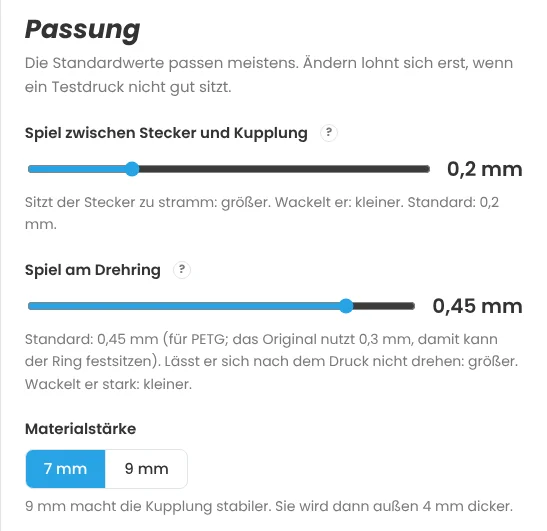
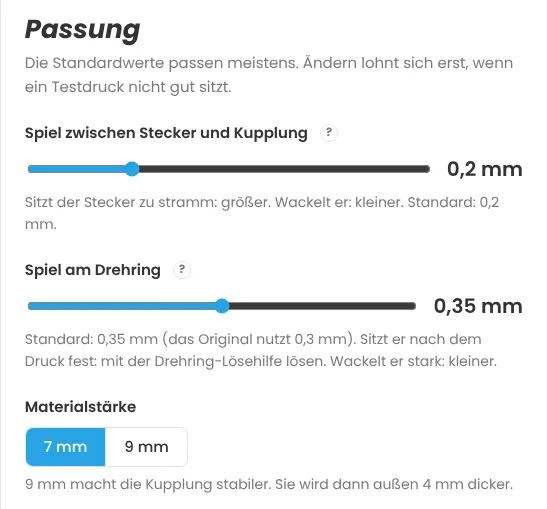
Magnetkupplung nur in der Entwicklungsumgebung, Drehring-Standard 0,35 mm, Version 0.5.5
- Verbindungen mit dev: true (catalog.ts) zeigt die Oberfläche nur unter npm run dev oder mit
  VITE_DEV_KINDS=1 beim Build (SHOW_DEV_KINDS, VISIBLE_KINDS, kindSelectable). Gespeicherte Stände
  und Druckbett-Einträge damit werden sonst nicht geladen. Die Magnet-Schnellkupplung ist so markiert.
- Anleitung: Abschnitte zwischen <!-- dev --> und <!-- /dev --> nur mit VITE_DEV_KINDS=1.
  test:ui prüft ohne Variable, dass die Kupplung ausgeblendet ist, mit Variable den Ablauf;
  Szene „magnet“ in docs:bilder nur mit Variable. Bild verbindung.webp ohne die Kupplung.
- Drehring am Schlauch: Standard wieder 0,35 mm statt 0,45 mm (Testdrucke F32H36 mit PETG: beide
  fest, 0,45 mm zieht mehr Fäden). Hinweis in Passung verweist auf die Drehring-Lösehilfe.
  Anleitung, README, test:islands, Bilder der Passung.
- CHANGELOG: Abschnitt 0.5.5, Magnetkupplung unter „In Entwicklung“. Version 0.5.5.

Claude-Session: https://claude.ai/code/session_012KSPQTXrC2Lv79WjzBB6SJ

diff --git a/public/anleitung.html b/public/anleitung.html
@@ -58,7 +58,7 @@ figure a.zoom{cursor:zoom-in;display:inline-block;max-width:100%}
 @media (max-width:900px){.wrap{grid-template-columns:1fr;gap:18px;padding:16px 14px 60px}.toc{position:static;max-height:none}section{padding:18px 16px 8px}header{padding:0 16px}}
 </style></head><body>
 <header id="oben"><p class="wordmark"><img class="wm-logo" src="./favicon.svg" alt="" width="34" height="34"><span class="wm-text"><span class="wm-os"><span class="os">os</span><span class="vac">VAC</span> <span class="neo">neo</span></span><span class="wm-sub">BAUKASTEN</span></span></p></header>
-<div class="wrap"><nav class="toc" id="inhalt" aria-label="Inhalt"><p class="toc-title">Inhalt</p><ol><li><a href="#aufbau">So ist die App aufgebaut</a><ol><li><a href="#begriffe">Was die Zeichen bedeuten</a></ol></li><li><a href="#verbindung">Schritt 1: Verbindung wählen</a></li><li><a href="#stecker-kupplung">Stecker ↔ Kupplung</a><ol><li><a href="#groessen">Größen</a></li><li><a href="#passung">Passung</a></ol></li><li><a href="#schlauch">Schlauchadapter</a><ol><li><a href="#groessen-2">Größen</a></li><li><a href="#passung-2">Passung</a></ol></li><li><a href="#stutzen">Adapter auf einen Stutzen</a><ol><li><a href="#groessen-und-stutzen-messen">Größen und Stutzen messen</a></li><li><a href="#feineinstellungen">Feineinstellungen</a></ol></li><li><a href="#magnet">Magnet-Schnellkupplung Ø100</a><ol><li><a href="#magnete-eindrucken">Magnete eindrucken</a></ol></li><li><a href="#duese">Saugdüse</a><ol><li><a href="#duesenart">Düsenart</a></li><li><a href="#anschluss">Anschluss</a></li><li><a href="#masse">Maße</a></li><li><a href="#spitze">Spitze</a></ol></li><li><a href="#nebenluft">Nebenluft-Regler</a></li><li><a href="#schieber">Schieber</a></li><li><a href="#loesehilfe">Drehring-Lösehilfe</a></li><li><a href="#freiform">Freiform</a><ol><li><a href="#vorlagen">Vorlagen</a></li><li><a href="#der-aufbau-als-kette">Der Aufbau als Kette</a></li><li><a href="#die-bausteine">Die Bausteine</a></li><li><a href="#ende-b-am-geraet">Ende B am Gerät</a></li><li><a href="#flansch">Flansch zum Anschrauben</a></li><li><a href="#abzweig-und-schieber">Abzweig und Schieber</a></li><li><a href="#was-liegt-beim-drucken-unten">Was liegt beim Drucken unten?</a></li><li><a href="#hinweise-und-vorschlaege">Hinweise und Vorschläge</a></ol></li><li><a href="#kontur">Eigene Kontur</a><ol><li><a href="#am-foto-nachzeichnen">Am Foto nachzeichnen</a></li><li><a href="#selbst-zeichnen-und-bearbeiten">Selbst zeichnen und bearbeiten</a></li><li><a href="#nach-dem-uebernehmen">Nach dem Übernehmen</a></ol></li><li><a href="#passung-3">Schritt Passung</a></li><li><a href="#download">Download</a><ol><li><a href="#druckbett">Mehrere Adapter auf ein Druckbett</a></ol></li><li><a href="#drucken">Drucken</a></li><li><a href="#fragen">Häufige Fragen</a><ol><li><a href="#der-stecker-passt-nicht-oder-wackelt">Der Stecker passt nicht oder wackelt.</a></li><li><a href="#der-drehring-dreht-sich-nicht">Der Drehring dreht sich nicht.</a></li><li><a href="#der-download-ist-gesperrt">Der Download ist gesperrt.</a></li><li><a href="#die-vorschau-ist-blass">Die Vorschau ist blass.</a></li><li><a href="#wo-sind-meine-dateien">Wo sind meine Dateien?</a></li><li><a href="#wie-fange-ich-neu-an">Wie fange ich neu an?</a></ol></li><li><a href="#darstellung">Darstellung</a></li></ol></nav><main>
+<div class="wrap"><nav class="toc" id="inhalt" aria-label="Inhalt"><p class="toc-title">Inhalt</p><ol><li><a href="#aufbau">So ist die App aufgebaut</a><ol><li><a href="#begriffe">Was die Zeichen bedeuten</a></ol></li><li><a href="#verbindung">Schritt 1: Verbindung wählen</a></li><li><a href="#stecker-kupplung">Stecker ↔ Kupplung</a><ol><li><a href="#groessen">Größen</a></li><li><a href="#passung">Passung</a></ol></li><li><a href="#schlauch">Schlauchadapter</a><ol><li><a href="#groessen-2">Größen</a></li><li><a href="#passung-2">Passung</a></ol></li><li><a href="#stutzen">Adapter auf einen Stutzen</a><ol><li><a href="#groessen-und-stutzen-messen">Größen und Stutzen messen</a></li><li><a href="#feineinstellungen">Feineinstellungen</a></ol></li><li><a href="#duese">Saugdüse</a><ol><li><a href="#duesenart">Düsenart</a></li><li><a href="#anschluss">Anschluss</a></li><li><a href="#masse">Maße</a></li><li><a href="#spitze">Spitze</a></ol></li><li><a href="#nebenluft">Nebenluft-Regler</a></li><li><a href="#schieber">Schieber</a></li><li><a href="#loesehilfe">Drehring-Lösehilfe</a></li><li><a href="#freiform">Freiform</a><ol><li><a href="#vorlagen">Vorlagen</a></li><li><a href="#der-aufbau-als-kette">Der Aufbau als Kette</a></li><li><a href="#die-bausteine">Die Bausteine</a></li><li><a href="#ende-b-am-geraet">Ende B am Gerät</a></li><li><a href="#flansch">Flansch zum Anschrauben</a></li><li><a href="#abzweig-und-schieber">Abzweig und Schieber</a></li><li><a href="#was-liegt-beim-drucken-unten">Was liegt beim Drucken unten?</a></li><li><a href="#hinweise-und-vorschlaege">Hinweise und Vorschläge</a></ol></li><li><a href="#kontur">Eigene Kontur</a><ol><li><a href="#am-foto-nachzeichnen">Am Foto nachzeichnen</a></li><li><a href="#selbst-zeichnen-und-bearbeiten">Selbst zeichnen und bearbeiten</a></li><li><a href="#nach-dem-uebernehmen">Nach dem Übernehmen</a></ol></li><li><a href="#passung-3">Schritt Passung</a></li><li><a href="#download">Download</a><ol><li><a href="#druckbett">Mehrere Adapter auf ein Druckbett</a></ol></li><li><a href="#drucken">Drucken</a></li><li><a href="#fragen">Häufige Fragen</a><ol><li><a href="#der-stecker-passt-nicht-oder-wackelt">Der Stecker passt nicht oder wackelt.</a></li><li><a href="#der-drehring-dreht-sich-nicht">Der Drehring dreht sich nicht.</a></li><li><a href="#der-download-ist-gesperrt">Der Download ist gesperrt.</a></li><li><a href="#die-vorschau-ist-blass">Die Vorschau ist blass.</a></li><li><a href="#wo-sind-meine-dateien">Wo sind meine Dateien?</a></li><li><a href="#wie-fange-ich-neu-an">Wie fange ich neu an?</a></ol></li><li><a href="#darstellung">Darstellung</a></li></ol></nav><main>
 <h1>Anleitung</h1>
 <p>Mit dem osVAC neo Baukasten stellst du Adapter für das Absaugsystem osVAC neo selbst zusammen und lädst sie als Datei für deinen 3D-Drucker herunter. Du brauchst dafür kein CAD-Programm: Du wählst aus, gibst ein paar Maße ein und siehst das Ergebnis sofort in der 3D-Vorschau.</p>
 <p>Diese Anleitung zeigt Schritt für Schritt, wie das geht, und erklärt alle Einstellungen. Über das Inhaltsverzeichnis springst du direkt zu dem Adapter, den du bauen möchtest.</p>
@@ -91,12 +91,11 @@ figure a.zoom{cursor:zoom-in;display:inline-block;max-width:100%}
 <p class="up"><a href="#oben">nach oben</a></p></section>
 <section><h2 id="verbindung">Schritt 1: Verbindung wählen</h2>
 <p>Im ersten Schritt wählst du, was für einen Adapter du brauchst. Die Arten sind nach ihrem Zweck sortiert.</p>
-<figure class="small"><a href="anleitung/verbindung.webp" class="zoom"><img src="anleitung/verbindung.webp" width="547" height="1530" alt="Schritt „Verbindung“ mit allen Adapterarten" loading="lazy"></a><figcaption>Schritt „Verbindung“ mit allen Adapterarten</figcaption></figure>
+<figure class="small"><a href="anleitung/verbindung.webp" class="zoom"><img src="anleitung/verbindung.webp" width="547" height="1375" alt="Schritt „Verbindung“ mit allen Adapterarten" loading="lazy"></a><figcaption>Schritt „Verbindung“ mit allen Adapterarten</figcaption></figure>
 <ul>
 <li><strong>osVAC neo untereinander:</strong> <a href="#stecker-kupplung">Stecker ↔ Kupplung</a> verbindet zwei Größen. <em>Kupplung einzeln</em> und <em>Stecker einzeln</em> sind nur der Verschluss, z. B. zum Einbau in eigene Konstruktionen.</li>
 <li><strong>An den Schlauch:</strong> <a href="#schlauch">Kupplung ↔ Schlauch und Stecker ↔ Schlauch</a> – zum Aufdrehen auf den Saugschlauch.</li>
 <li><strong>An ein Gerät:</strong> <a href="#stutzen">Kupplung → Stutzen und Stecker → Stutzen</a> – für ein Gerät mit rundem Stutzen, den du selbst ausmisst.</li>
-<li><strong>Magnet-Schnellkupplung Ø100:</strong> <a href="#magnet">Adapter und Kupplung für 100-mm-Schläuche</a>, die mit eingedruckten Magneten zusammenhalten. Ein eigenes System, es passt nicht zu den Teilen von osVAC neo.</li>
 <li><strong>Zubehör:</strong> <a href="#duese">Saugdüse</a>, <a href="#nebenluft">Nebenluft-Regler</a>, <a href="#schieber">Schieber einzeln</a> und <a href="#loesehilfe">Drehring-Lösehilfe</a>.</li>
 <li><strong>Eigener Aufbau:</strong> <a href="#freiform">Freiform</a> – ein Adapter aus Bausteinen, z. B. für eckige Auslässe, Bögen, Abzweige oder Geräte mit ungewöhnlicher Form.</li>
 </ul>
@@ -124,10 +123,10 @@ figure a.zoom{cursor:zoom-in;display:inline-block;max-width:100%}
 <li><strong>Schlauch (H):</strong> der Innendurchmesser des Schlauchs. Miss ihn innen oder schau in die Angaben deines Saugers. Viele Schläuche haben 32 oder 36 mm.</li>
 </ul>
 <h3 id="passung-2">Passung</h3>
-<figure class="small"><a href="anleitung/passung-schlauch.webp" class="zoom"><img src="anleitung/passung-schlauch.webp" width="547" height="531" alt="Passung beim Schlauchadapter" loading="lazy"></a><figcaption>Passung beim Schlauchadapter</figcaption></figure>
+<figure class="small"><a href="anleitung/passung-schlauch.webp" class="zoom"><img src="anleitung/passung-schlauch.webp" width="547" height="509" alt="Passung beim Schlauchadapter" loading="lazy"></a><figcaption>Passung beim Schlauchadapter</figcaption></figure>
 <ul>
 <li><strong>Spiel zwischen Stecker und Kupplung:</strong> wie bei <a href="#stecker-kupplung">Stecker ↔ Kupplung</a>.</li>
-<li><strong>Spiel am Drehring:</strong> Der Ring wird gleich mitgedruckt. Ist das Spiel zu klein, klebt er fest. Standard sind 0,45 mm, passend für PETG (bei 9 mm Materialstärke höchstens 0,35 mm). Das Original nutzt 0,3 mm; damit sitzt der Ring mit PETG oft fest.</li>
+<li><strong>Spiel am Drehring:</strong> Der Ring wird gleich mitgedruckt. Ist das Spiel zu klein, klebt er fest. Standard sind 0,35 mm, bei 9 mm Materialstärke ist das auch das Höchstmaß. Das Original nutzt 0,3 mm. Mit PETG kann der Ring nach dem Druck festsitzen; dann hilft die <a href="#loesehilfe">Drehring-Lösehilfe</a>.</li>
 <li><strong>Materialstärke:</strong> 9 mm statt 7 mm macht die Kupplung stabiler, sie wird dann außen 4 mm dicker.</li>
 </ul>
 <div class="box tip"><strong>Hinweis:</strong> Nach dem Druck den Schlauchteil einmal kräftig drehen, bis sich der Ring leicht bewegt. Sitzt er richtig fest, hilft die <a href="#loesehilfe">Drehring-Lösehilfe</a>.</div>
@@ -156,27 +155,6 @@ figure a.zoom{cursor:zoom-in;display:inline-block;max-width:100%}
 </ul>
 <p>Die kleine Tabelle darunter zeigt, wie weit das Rohrteil am Ende innen und außen wird.</p>
 <div class="box tip"><strong>Tipp:</strong> Für Geräte mit eckigem oder ungewöhnlichem Auslass nimm die <a href="#freiform">Freiform</a>. Dort gibt es auch einen <a href="#flansch">Flansch zum Anschrauben</a> und <a href="#kontur">eigene Konturen</a>.</div>
-<p class="up"><a href="#oben">nach oben</a></p></section>
-<section><h2 id="magnet">Magnet-Schnellkupplung Ø100</h2>
-<p>Für große Geräte mit 100-mm-Absaugung: Am Gerät sitzt ein <strong>Maschinenadapter</strong>, am Schlauch eine <strong>Schlauchkupplung</strong>. Beide halten über je acht Neodym-Magnete zusammen; ein Bund in der Mitte zentriert sie. Zum Umstecken ziehst du die Kupplung ab und setzt sie am nächsten Gerät an. Das ist ein eigenes System und passt nicht zu den Teilen von osVAC neo.</p>
-<figure><a href="anleitung/magnet-vorschau.webp" class="zoom"><img src="anleitung/magnet-vorschau.webp" width="1440" height="900" alt="Magnet-Schnellkupplung in der Vorschau" loading="lazy"></a><figcaption>Magnet-Schnellkupplung in der Vorschau</figcaption></figure>
-<figure class="small"><a href="anleitung/magnet.webp" class="zoom"><img src="anleitung/magnet.webp" width="547" height="1060" alt="Einstellungen der Magnet-Schnellkupplung" loading="lazy"></a><figcaption>Einstellungen der Magnet-Schnellkupplung</figcaption></figure>
-<ul>
-<li><strong>Teile:</strong> Maschinenadapter, Schlauchkupplung oder beides. Für jedes Gerät brauchst du einen Adapter, für jeden Schlauch eine Kupplung. Beide zusammen brauchen ein Druckbett von etwa 240 mm; ist deins kleiner, druckst du sie nacheinander.</li>
-<li><strong>Magnete:</strong> Scheibenmagnete 10 × 3, 12 × 5 oder 15 × 3 mm (Ø × Höhe). Größere halten fester. Adapter und Kupplung immer mit derselben Größe drucken.</li>
-<li><strong>Stutzen außen Ø</strong> und <strong>Tiefe:</strong> Außendurchmesser des Stutzens am Gerät und wie weit er im Adapter steckt, bis zum Anschlag innen.</li>
-<li><strong>Schlauch innen Ø</strong>, <strong>Steigung</strong> und <strong>Links- oder Rechtsgewinde:</strong> passend zur Drahtspirale deines Schlauchs. Die Steigung misst du am besten über fünf Windungen und teilst durch fünf.</li>
-</ul>
-<p>In <em>Passung</em> stellst du das Spiel am Stutzen und am Zentrierbund ein.</p>
-<p>Der Adapter wird mit einer Schraubklemme festgezogen: eine Zylinderschraube M5 × 25 (ISO 4762) und eine selbstsichernde Mutter M5 (DIN 985). Die Mutter sitzt verdrehsicher in einer Sechskant-Tasche.</p>
-<h3 id="magnete-eindrucken">Magnete eindrucken</h3>
-<p>Die Magnete liegen in geschlossenen Taschen unter der Kontaktfläche. Beim Drucken hältst du an der richtigen Schicht an, legst die Magnete ein und druckst weiter; drei Schichten darüber schließen die Taschen.</p>
-<ol>
-<li>Im Slicer an der Höhe, die im <a href="#download">Download</a> unter <em>Druckhinweise</em> steht, eine Pause einfügen (Bambu Studio: Schieber der Schichtvorschau auf diese Höhe, Rechtsklick auf das Plus, <em>Pause hinzufügen</em>). Mit 0,2 mm Schichthöhe drucken.</li>
-<li>In der Pause die Magnete bis zum Boden in die Taschen drücken. Nichts darf überstehen.</li>
-<li><strong>Polung:</strong> Alle Magnete eines Teils gleich herum einlegen, beim Adapter mit der einen Seite nach oben, bei der Kupplung mit der anderen. Dann ziehen sich alle Kupplungen und Adapter an.</li>
-<li>Weiterdrucken.</li>
-</ol>
 <p class="up"><a href="#oben">nach oben</a></p></section>
 <section><h2 id="duese">Saugdüse</h2>
 <p>Eine eigene Düse zum Aufstecken auf den Schlauch. Die Düse wird stehend gedruckt, mit dem Anschluss unten und der Spitze oben.</p>
@@ -217,7 +195,7 @@ figure a.zoom{cursor:zoom-in;display:inline-block;max-width:100%}
 <li><strong>Unten: Schlauch (H):</strong> wie beim <a href="#schlauch">Schlauchadapter</a>. Der Schlauch wird eingedreht und kann sich mit dem unteren Drehring drehen.</li>
 <li><strong>Bedienung:</strong> Den Nebenluft-Ring um 60° drehen: von ganz auf bis ganz zu, dazwischen stufenlos. Kerben am oberen Bund zeigen, wo die Fenster sind.</li>
 </ul>
-<p>In <strong>Passung</strong> stellst du das <strong>Spiel am Nebenluft-Ring</strong> ein (Standard 0,35 mm) und das <strong>Spiel am Drehring</strong> für den Schlauch (Standard 0,45 mm). Dreht ein Ring nach dem Druck zu schwer, mehr Spiel einstellen.</p>
+<p>In <strong>Passung</strong> stellst du das <strong>Spiel am Nebenluft-Ring</strong> ein (Standard 0,35 mm) und das <strong>Spiel am Drehring</strong> für den Schlauch (Standard 0,35 mm). Dreht ein Ring nach dem Druck zu schwer, mehr Spiel einstellen.</p>
 <p class="up"><a href="#oben">nach oben</a></p></section>
 <section><h2 id="schieber">Schieber</h2>
 <p>Ein Absperrschieber für Rohre: Mit einer Platte machst du die Leitung auf oder zu. Er besteht aus zwei Gehäuseteilen und der Platte und wird verschraubt (Muttern und Schrauben M3).</p>

diff --git a/scripts/ui-flows.ts b/scripts/ui-flows.ts
@@ -564,39 +564,47 @@ await withPreview(4180, async (url, browser) => {
     expect((await pg.locator('.stage-head .code').innerText()).includes('F32'), 'Stecker-Halter fehlt in der Kopfzeile');
   });
 
-  await test('Magnet-Schnellkupplung: Teile, Magnete, Druckpause', pg, async () => {
-    await step(pg, 'Verbindung');
-    await pg.getByRole('radio', { name: /Magnet-Schnellkupplung/ }).click();
-    await step(pg, 'Teile');
-    await ready(pg);
-    expect((await pg.locator('.stage-head .code').innerText()).includes('10 × 3'), 'Kopfzeile: ' + (await pg.locator('.stage-head .code').innerText()));
-    await pg.getByRole('radio', { name: '12 × 5 mm' }).click();
-    await ready(pg);
-    expect((await pg.locator('.stage-head .code').innerText()).includes('12 × 5'), 'Magnetgröße nicht übernommen');
-    await pg.getByLabel(/Schlauchkupplung: wird/).uncheck();
-    expect(await pg.getByLabel(/Maschinenadapter: kommt/).isDisabled(), 'letztes Teil abwählbar');
-    expect((await pg.getByText('Steigung', { exact: true }).count()) === 0, 'Gewinde-Felder ohne Kupplung sichtbar');
-    await ready(pg);
-    await step(pg, 'Download');
-    const tips = await pg.locator('.tips').innerText();
-    expect(tips.includes('8 Neodym-Scheibenmagnete 12 × 5 mm'), 'Zahl/Größe der Magnete fehlt');
-    expect(/Adapter bei [\d,]+ mm/.test(tips) && !tips.includes('Kupplung bei'), 'Druckpause nur für den Adapter erwartet');
-    expect(tips.includes('M5 × 25') && tips.includes('DIN 985'), 'Schraube/Mutter fehlt');
-    expect(tips.includes('Stützen werden nicht gebraucht'), 'Magnetkupplung braucht Stützen?');
-    expect((await pg.locator('.lead').first().innerText()).includes('Magnete 12 × 5 mm'), 'Download-Text ohne Magnetgröße');
-    await step(pg, 'Teile');
-    await pg.getByLabel(/Schlauchkupplung: wird/).check();
-    await pg.getByRole('radio', { name: 'Rechtsgewinde' }).click();
-    await step(pg, 'Passung');
-    expect((await pg.getByText('Spiel am Zentrierbund').count()) === 1, 'Spiel am Bund fehlt');
-    await ready(pg);
-    await step(pg, 'Download');
-    expect((await pg.locator('.tips').innerText()).includes('Kupplung bei'), 'Druckpause der Kupplung fehlt');
-    expect((await pg.locator('.tips').innerText()).includes('im Uhrzeigersinn'), 'Drehrichtung Rechtsgewinde fehlt');
-    await step(pg, 'Teile');
-    await pg.getByRole('radio', { name: '10 × 3 mm' }).click();
-    await pg.getByRole('radio', { name: 'Linksgewinde' }).click();
-  });
+  // Verbindungen in Entwicklung (catalog.ts, dev: true) gibt es nur mit VITE_DEV_KINDS=1 (beim Build und hier gesetzt)
+  if (process.env.VITE_DEV_KINDS === '1') {
+    await test('Magnet-Schnellkupplung: Teile, Magnete, Druckpause', pg, async () => {
+      await step(pg, 'Verbindung');
+      await pg.getByRole('radio', { name: /Magnet-Schnellkupplung/ }).click();
+      await step(pg, 'Teile');
+      await ready(pg);
+      expect((await pg.locator('.stage-head .code').innerText()).includes('10 × 3'), 'Kopfzeile: ' + (await pg.locator('.stage-head .code').innerText()));
+      await pg.getByRole('radio', { name: '12 × 5 mm' }).click();
+      await ready(pg);
+      expect((await pg.locator('.stage-head .code').innerText()).includes('12 × 5'), 'Magnetgröße nicht übernommen');
+      await pg.getByLabel(/Schlauchkupplung: wird/).uncheck();
+      expect(await pg.getByLabel(/Maschinenadapter: kommt/).isDisabled(), 'letztes Teil abwählbar');
+      expect((await pg.getByText('Steigung', { exact: true }).count()) === 0, 'Gewinde-Felder ohne Kupplung sichtbar');
+      await ready(pg);
+      await step(pg, 'Download');
+      const tips = await pg.locator('.tips').innerText();
+      expect(tips.includes('8 Neodym-Scheibenmagnete 12 × 5 mm'), 'Zahl/Größe der Magnete fehlt');
+      expect(/Adapter bei [\d,]+ mm/.test(tips) && !tips.includes('Kupplung bei'), 'Druckpause nur für den Adapter erwartet');
+      expect(tips.includes('M5 × 25') && tips.includes('DIN 985'), 'Schraube/Mutter fehlt');
+      expect(tips.includes('Stützen werden nicht gebraucht'), 'Magnetkupplung braucht Stützen?');
+      expect((await pg.locator('.lead').first().innerText()).includes('Magnete 12 × 5 mm'), 'Download-Text ohne Magnetgröße');
+      await step(pg, 'Teile');
+      await pg.getByLabel(/Schlauchkupplung: wird/).check();
+      await pg.getByRole('radio', { name: 'Rechtsgewinde' }).click();
+      await step(pg, 'Passung');
+      expect((await pg.getByText('Spiel am Zentrierbund').count()) === 1, 'Spiel am Bund fehlt');
+      await ready(pg);
+      await step(pg, 'Download');
+      expect((await pg.locator('.tips').innerText()).includes('Kupplung bei'), 'Druckpause der Kupplung fehlt');
+      expect((await pg.locator('.tips').innerText()).includes('im Uhrzeigersinn'), 'Drehrichtung Rechtsgewinde fehlt');
+      await step(pg, 'Teile');
+      await pg.getByRole('radio', { name: '10 × 3 mm' }).click();
+      await pg.getByRole('radio', { name: 'Linksgewinde' }).click();
+    });
+  } else
+    await test('Magnet-Schnellkupplung im Build ausgeblendet', pg, async () => {
+      await step(pg, 'Verbindung');
+      expect((await pg.getByRole('radio', { name: /Magnet-Schnellkupplung/ }).count()) === 0, 'Magnet-Schnellkupplung ist sichtbar');
+      expect((await pg.getByText('Magnet-Schnellkupplung Ø100').count()) === 0, 'Gruppe Magnet-Schnellkupplung ist sichtbar');
+    });
 
   await test('Druckhilfe gilt je Verbindung', pg, async () => {
     const tool = pg.locator('button.tool', { hasText: 'Druckhilfe' });

diff --git a/src/lib/app.svelte.ts b/src/lib/app.svelte.ts
@@ -5,7 +5,7 @@
  */
 import { exportFile, exportPlate, makeBuild, type PlateItem } from './cad';
 import { saveTarget } from './save.svelte';
-import { kindById, type DiameterKey } from './osvac/catalog';
+import { kindById, kindSelectable, type DiameterKey } from './osvac/catalog';
 import { DEFAULT_INPUT, deriveParams, type OsvacInput } from './osvac/params';
 import type { ExportFormat } from './worker/protocol';
 import { pipeWall, type PipeSpec } from './osvac/machine';
@@ -29,10 +29,13 @@ export const FORMATS: { id: ExportFormat; label: string; hint: string }[] = [
 
 /** Startwerte (auf diese setzt „Zurücksetzen“ zurück) */
 /**
- * Startwerte der App. Drehring am Schlauch 0,45 mm statt 0,3 mm wie im Original (DEFAULT_INPUT, bleibt für den Abgleich
- * mit Fusion): mit PETG und 0,2-mm-Schichten saß der Ring bei 0,35 mm noch fest (Testdruck Nebenluft F32H36, 16.11.).
+ * Startwerte der App. Drehring am Schlauch 0,35 mm statt 0,3 mm wie im Original (DEFAULT_INPUT, bleibt für den Abgleich
+ * mit Fusion). Testdrucke F32H36 mit PETG (Sunlu) und 0,2-mm-Schichten, 16./17.11.: bei 0,35 und bei 0,45 mm saß der
+ * Ring fest, 0,45 mm zog dabei deutlich mehr Fäden. Ursache vermutlich nicht das Spiel, sondern die ersten Bahnen des
+ * Außenrings, die frei 0,45–0,55 mm über dem Innenring gedruckt werden und durchhängen. Daher wieder 0,35 mm (wie das
+ * Höchstmaß bei 9 mm Materialstärke an der Kupplung).
  */
-export const START_INPUT: OsvacInput = { ...DEFAULT_INPUT, maleDiameterInner: 32, femaleDiameterInner: 32, hoseDiameterInner: 36, slipRingGapSize: 0.45 };
+export const START_INPUT: OsvacInput = { ...DEFAULT_INPUT, maleDiameterInner: 32, femaleDiameterInner: 32, hoseDiameterInner: 36, slipRingGapSize: 0.35 };
 
 /** Bereiche der Eingabefelder (beim Laden eines gespeicherten Stands) */
 const INPUT_LIMITS: Record<keyof OsvacInput, [number, number]> = {
@@ -756,7 +759,7 @@ class AppState {
       const list = JSON.parse(raw);
       if (!Array.isArray(list)) return;
       this.plate = list
-        .filter((x) => x && typeof x.kind === 'string' && kindById(x.kind)?.available && (x.kind !== 'BLEED' || (x.options && typeof x.options === 'object' && 'bleed' in x.options)) && (x.kind !== 'MAGNET' || (x.options && typeof x.options === 'object' && 'magnet' in x.options)) && x.input && typeof x.input === 'object' && x.options && typeof x.options === 'object' && typeof x.label === 'string' && typeof x.key === 'string')
+        .filter((x) => x && typeof x.kind === 'string' && kindSelectable(x.kind) && (x.kind !== 'BLEED' || (x.options && typeof x.options === 'object' && 'bleed' in x.options)) && (x.kind !== 'MAGNET' || (x.options && typeof x.options === 'object' && 'magnet' in x.options)) && x.input && typeof x.input === 'object' && x.options && typeof x.options === 'object' && typeof x.label === 'string' && typeof x.key === 'string')
         .map((x) => ({ req: makeBuild(x.kind, { ...START_INPUT, ...x.input }, x.options), includeHelpers: x.includeHelpers === true, label: x.label, key: x.key }));
     } catch {
       /* beschädigt: leeres Druckbett */
@@ -775,7 +778,7 @@ class AppState {
     try {
       const s = JSON.parse(raw);
       const num = (v: unknown) => typeof v === 'number' && Number.isFinite(v);
-      if (typeof s.kindId === 'string' && kindById(s.kindId)?.available) this.kindId = s.kindId;
+      if (typeof s.kindId === 'string' && kindSelectable(s.kindId)) this.kindId = s.kindId;
       if (s.input && typeof s.input === 'object')
         for (const k of Object.keys(START_INPUT) as (keyof OsvacInput)[]) if (num(s.input[k])) (this.input[k] as number) = Math.min(INPUT_LIMITS[k][1], Math.max(INPUT_LIMITS[k][0], s.input[k]));
       if (this.input.generalMaterialWidth !== 7 && this.input.generalMaterialWidth !== 9) this.input.generalMaterialWidth = START_INPUT.generalMaterialWidth;

diff --git a/src/lib/osvac/catalog.ts b/src/lib/osvac/catalog.ts
@@ -39,6 +39,8 @@ export interface AdapterKind {
   helper?: boolean;
   /** Magnet-Schnellkupplung Ø100: eigenes System mit eingedruckten Neodym-Magneten */
   magnet?: boolean;
+  /** noch in Entwicklung: nur in der Entwicklungsumgebung sichtbar (siehe SHOW_DEV_KINDS) */
+  dev?: boolean;
   fileName: (p: OsvacParams, o?: asm.BuildOptions) => string;
 }
 
@@ -167,6 +169,7 @@ export const KINDS: AdapterKind[] = [
     ends: { top: 'magnet', bottom: null },
     diameters: [],
     magnet: true,
+    dev: true,
     available: true,
     build: asm.buildMagnet,
     parts: asm.partsMagnet,
@@ -254,3 +257,16 @@ export const KINDS: AdapterKind[] = [
 ];
 
 export const kindById = (id: string) => KINDS.find((k) => k.id === id)!;
+
+/**
+ * Verbindungen in Entwicklung (dev: true) zeigt die Oberfläche nur in der Entwicklungsumgebung (`npm run dev`) oder in
+ * einem Build mit `VITE_DEV_KINDS=1`. Im Programm und in `npm run build` ohne diese Variable sind sie ausgeblendet; ein
+ * gespeicherter Stand oder Druckbett-Eintrag damit wird nicht geladen. Geometrie, Worker und Skripte (Node, ohne
+ * import.meta.env) kennen sie weiter.
+ */
+const viteEnv = (import.meta as { env?: { DEV?: boolean; VITE_DEV_KINDS?: string } }).env;
+export const SHOW_DEV_KINDS = !viteEnv || !!viteEnv.DEV || viteEnv.VITE_DEV_KINDS === '1';
+/** Verbindungen, die die Oberfläche anbietet */
+export const VISIBLE_KINDS = KINDS.filter((k) => !k.dev || SHOW_DEV_KINDS);
+/** Verbindung wählbar (bekannt, verfügbar und sichtbar) */
+export const kindSelectable = (id: string) => VISIBLE_KINDS.some((k) => k.id === id && k.available);

diff --git a/scripts/islands.ts b/scripts/islands.ts
@@ -70,8 +70,8 @@ const others: [string, string, object, RegExp, object?][] = [
   ['schieber-50-wandplatte', 'GATE', { gate: { ...DEFAULT_GATE, d: 50, mount: 'plate' } as GateSpec }, COUNTED_GATE],
   ['schieber-32-wandhalter', 'GATE', { gate: { ...DEFAULT_GATE, d: 32, mount: 'clip' } as GateSpec }, COUNTED_GATE],
   ['loesehilfe-32', 'HELPER', {}, /^Lösehilfe/],
-  // wie beim ersten Öffnen der App (Nebenluft-Ring 0,35, Drehring 0,45)
-  ['nebenluft-F32-H36', 'BLEED', { bleed: { top: 'female', gap: 0.35 } }, /^$/, { femaleDiameterInner: 32, hoseDiameterInner: 36, slipRingGapSize: 0.45 }],
+  // wie beim ersten Öffnen der App (Nebenluft-Ring 0,35, Drehring 0,35)
+  ['nebenluft-F32-H36', 'BLEED', { bleed: { top: 'female', gap: 0.35 } }, /^$/, { femaleDiameterInner: 32, hoseDiameterInner: 36, slipRingGapSize: 0.35 }],
   ['nebenluft-M32-H27-W9', 'BLEED', { bleed: { top: 'male', gap: 0.3 } }, /^$/, { maleDiameterInner: 32, hoseDiameterInner: 27, generalMaterialWidth: 9 }],
   ['nebenluft-F50-H50', 'BLEED', { bleed: { top: 'female', gap: 0.6 } }, /^$/, { femaleDiameterInner: 50, hoseDiameterInner: 50 }],
   ['loesehilfe-F25-M50-W9', 'HELPER', {}, /^Lösehilfe/, { femaleDiameterInner: 25, maleDiameterInner: 50, generalMaterialWidth: 9, maleFemaleGapSize: 0.3 }],

diff --git a/scripts/anleitung.ts b/scripts/anleitung.ts
@@ -58,7 +58,11 @@ function figure(alt: string, src: string, small: boolean) {
   return `<figure${small ? ' class="small"' : ''}><a href="${src}" class="zoom"><img src="${src}"${wh} alt="${esc(alt)}" loading="lazy"></a>${alt ? `<figcaption>${inline(alt)}</figcaption>` : ''}</figure>`;
 }
 
-const md = readFileSync(SRC, 'utf8').replace(/<!--[\s\S]*?-->/g, '');
+// Abschnitte zwischen <!-- dev --> und <!-- /dev --> gehören zu Verbindungen in Entwicklung (catalog.ts, dev: true):
+// nur mit VITE_DEV_KINDS=1 in der Anleitung
+const DEV = process.env.VITE_DEV_KINDS === '1';
+const raw = readFileSync(SRC, 'utf8');
+const md = (DEV ? raw.replace(/^<!-- \/?dev -->\n/gm, '') : raw.replace(/<!-- dev -->[\s\S]*?<!-- \/dev -->\n?/g, '')).replace(/<!--[\s\S]*?-->/g, '');
 const lines = md.split('\n');
 const toc: { level: number; id: string; text: string }[] = [];
 const used = new Set<string>();

diff --git a/src/components/steps/StepFit.svelte b/src/components/steps/StepFit.svelte
@@ -71,7 +71,7 @@
       <output>{fmt(app.input.slipRingGapSize, 2)} mm</output>
     </div>
     <HelpText id="swivel" />
-    <p class="hint" id="swivel-hint">Standard: {fmt(app.swivelDefault, 2)} mm (für PETG; das Original nutzt 0,3 mm, damit kann der Ring festsitzen). Lässt er sich nach dem Druck nicht drehen: größer. Wackelt er stark: kleiner.</p>
+    <p class="hint" id="swivel-hint">Standard: {fmt(app.swivelDefault, 2)} mm (das Original nutzt 0,3 mm). Sitzt er nach dem Druck fest: mit der Drehring-Lösehilfe lösen. Wackelt er stark: kleiner.</p>
   </fieldset>
 {/if}
 

diff --git a/scripts/anleitung-bilder.ts b/scripts/anleitung-bilder.ts
@@ -249,8 +249,10 @@ const scenes: Scene[] = [
     },
   },
   {
+    // Verbindung in Entwicklung: nur mit VITE_DEV_KINDS=1 (Build und Aufnahme), sonst übersprungen
     name: 'magnet',
     run: async (pg) => {
+      if (process.env.VITE_DEV_KINDS !== '1') return console.log('   übersprungen (nur mit VITE_DEV_KINDS=1)');
       await kind(pg, /Magnet-Schnellkupplung/);
       await step(pg, 'Teile');
       await shotPanel(pg, 'magnet');

diff --git a/src/components/steps/StepKind.svelte b/src/components/steps/StepKind.svelte
@@ -1,7 +1,7 @@
 <script lang="ts">
   /** Schritt 1: Adaptertyp wählen */
   import { app } from '../../lib/app.svelte';
-  import { KINDS, KIND_GROUPS } from '../../lib/osvac/catalog';
+  import { VISIBLE_KINDS as KINDS, KIND_GROUPS } from '../../lib/osvac/catalog';
   import KindIcon from '../KindIcon.svelte';
   import ResetLink from '../ResetLink.svelte';
   import { reveal } from '../../lib/reveal';

diff --git a/README.md b/README.md
@@ -29,11 +29,11 @@ Es werden keine neuen Adapter erfunden. Jedes Teil ist ein parametrisiertes Orig
 | Schieber einzeln | Unterteil und Oberteil (verschraubt, je eine Muffe), Schieberplatte, ggf. Wandhalter | eigene Erweiterung, siehe unten |
 | Saugdüse | Anschluss (Kupplung oder Stecker), Rohr, Spitze mit Öffnung, ggf. Schutzring und Bürstennut | eigene Erweiterung, siehe unten |
 | Nebenluft-Regler | Kupplung oder Stecker, Rohr mit Fenstern und Drehring, Drehring für den Schlauch, Schlauchteil mit Gewinde und Knickschutz | eigene Erweiterung, siehe unten |
-| Magnet-Schnellkupplung Ø100 | Maschinenadapter mit Schraubklemme, Schlauchkupplung mit Gewinde (eigener Körper), je 8 eingedruckte Magnete | eigenes System, siehe unten |
+| Magnet-Schnellkupplung Ø100 (in Entwicklung) | Maschinenadapter mit Schraubklemme, Schlauchkupplung mit Gewinde (eigener Körper), je 8 eingedruckte Magnete | eigenes System, siehe unten |
 | Drehring-Lösehilfe | Halter für Kupplungen oder für Stecker | SlipRingHelper (Ludo Kerz), siehe unten |
 | Freiform | Anschluss A (Female oder Male), Übergang, Bausteine, Ende B (Gerät oder Female/Male) | eigene Erweiterung, siehe unten |
 
-Einstellbar: Durchmesser von Stecker, Kupplung und Schlauch, Spaltmaß Stecker/Kupplung, Spaltmaß Drehring (ab 0,2 mm, Standard 0,45 mm, bei 9 mm Materialstärke an der Kupplung 0,35 mm; das Original hat 0,3 mm; an der Kupplung höchstens 0,5 mm bei 7 mm bzw. 0,35 mm bei 9 mm Materialstärke, im Gehäuse bis 0,8 mm), Materialstärke (7 oder 9 mm), Druckhilfe (die Beschriftung ist immer dabei) sowie beim Stutzen Befestigungsart, Durchmesser vorne und in der Tiefe, Steckweg, Wandstärke, Zugabe, Übergangslänge (TransitionConeLength, Standard 8 mm), Schraubenlöcher, Klemmrippen (aufgesteckt innen, eingesteckt außen; eingesteckt möglichst neben der Beschriftung) und beim Aufstecken Schlitze für eine Schlauchschelle (2 Stück bei 0° und 180°, zwischen Löchern und Schrift; 80 % der Rohrlänge, Breite Umfang/40).
+Einstellbar: Durchmesser von Stecker, Kupplung und Schlauch, Spaltmaß Stecker/Kupplung, Spaltmaß Drehring (ab 0,2 mm, Standard 0,35 mm; das Original hat 0,3 mm; an der Kupplung höchstens 0,5 mm bei 7 mm bzw. 0,35 mm bei 9 mm Materialstärke, im Gehäuse bis 0,8 mm), Materialstärke (7 oder 9 mm), Druckhilfe (die Beschriftung ist immer dabei) sowie beim Stutzen Befestigungsart, Durchmesser vorne und in der Tiefe, Steckweg, Wandstärke, Zugabe, Übergangslänge (TransitionConeLength, Standard 8 mm), Schraubenlöcher, Klemmrippen (aufgesteckt innen, eingesteckt außen; eingesteckt möglichst neben der Beschriftung) und beim Aufstecken Schlitze für eine Schlauchschelle (2 Stück bei 0° und 180°, zwischen Löchern und Schrift; 80 % der Rohrlänge, Breite Umfang/40).
 
 ### Schieber einzeln
 
@@ -64,7 +64,7 @@ Gerade, Bogen, Anschlagring und Muffe/Zapfen ohne Konus sind exakte Extrusionen 
 
 **Eigene Kontur** (`src/lib/osvac/contour.ts`, `src/lib/contour-import.ts`, `ContourPanel.svelte`, `ContourDraw.svelte`): siebte Form „Eigene“ in jeder Formauswahl der Freiform. Wege: SVG/DXF laden (SVG im Browser abgetastet mit Transformationen und Einheiten aus width/viewBox; DXF: LWPOLYLINE/POLYLINE mit Bögen, LINE/ARC verkettet, CIRCLE, ELLIPSE, SPLINE, `$INSUNITS`; mehrere Umrisse → Auswahl), am Foto nachzeichnen (Maßstab aus zwei Punkten auf einem Lineal) oder auf Millimeterraster zeichnen (Punkte ziehen, einfügen, löschen, Eckradius je Punkt). Aufbereitung: spitze Ecken R 0,5, Rundungen dicht abgetastet, Mitte des Umrisses im Ursprung. Versatz für Zugabe und Wand mit Clipper (runde Ecken). Draht: lange Kanten als Linien, Ketten kurzer Kanten als BSpline, an Knicken getrennt. Die Punkte gelten mit Blick auf den Stutzen (von außen); in der Geometrie werden sie gespiegelt, weil die Querschnittsebene in Richtung der Kette gesehen wird. Prüfung: geschlossen, ohne Überschneidung, 6–250 mm; eingesteckt Hinweis bei Stellen, die schmaler als Wand und Luft sind (narrowLoss). SVG: `<use>`/`<symbol>` werden aufgelöst, Vorlagen in `<defs>` nicht mitgezählt. Editor: Rückgängig, Zoom mit zwei Fingern und Knöpfen, Rückfrage vor dem Verwerfen. Testdateien in `scripts/fixtures`. Clipper, der SVG/DXF-Leser und das Zeichenfenster werden nachgeladen (eigene Dateien): Wer mit Konturen rechnet, wartet auf `clipperReady` (CAD-Worker, Skripte); die Planung im Browser rechnet nach dem Laden neu (`app.clipperOk`).
 
-**Magnet-Schnellkupplung Ø100** (`src/lib/osvac/magnet.ts`, `partsMagnet` in `assemblies.ts`): eigenes System, nicht kompatibel mit osVAC neo; Idee wie die magnetische Schnellkupplung von kleinholz.me, eigene Konstruktion. Maschinenadapter: Muffe über den Stutzen (Ø 90–110, Spiel je Seite 0,3), innen 45°-Anschlag auf die Bohrung Ø 97, am offenen Ende Schraubklemme (Schlitz 4 mm mit Entlastungsloch Ø 8, zwei Ohren mit 45°-Stützen, Bohrung Ø 5,5, Kopfsenkung Ø 9,2 und Sechskant-Tasche SW 8,3, beide 5,3 tief: Zylinderschraube M5 × 25 ISO 4762, selbstsichernde Mutter M5 DIN 985), oben Flansch und Zentrierbund Ø 106 × 6. Schlauchkupplung: Rohr mit Außengewinde (Grund = Schlauch innen Ø 90–110, Tiefe 3, Flanken 45°, Steigung 8–20, links oder rechts, eigener Körper „Gewinde“), oben Flansch mit Tasche für den Bund (Spiel je Seite 0,3). Flansch: Scheibe R 59 und 8 Nasen auf R 63 (Nasenradius = Tasche/2 + 3,5), Unterseite durchgehend 45° von der Wand bis außen an die Nasen, darum druckt alles ohne Stützen. Magnete 10 × 3, 12 × 5 oder 15 × 3 in geschlossenen Taschen (+0,3 im Ø, +0,2 hoch) 0,6 mm unter der Kontaktfläche; Kontaktfläche und Taschen im 0,2-mm-Raster, die Höhen der Druckpause stehen in den Druckhinweisen. Beide Teile werden mit der Kontaktfläche nach oben gedruckt und liegen diagonal nebeneinander, um 22,5° gegeneinander verdreht (passen auf 256 mm). `npm run test:islands -- magnet` prüft drei Varianten; `npx tsx scripts/magnet-try.ts [Ordner] [JSON]` baut die Körper einzeln als STL.
+**Magnet-Schnellkupplung Ø100** (`src/lib/osvac/magnet.ts`, `partsMagnet` in `assemblies.ts`), **in Entwicklung**: Die Oberfläche zeigt sie nur unter `npm run dev` oder in einem Build mit `VITE_DEV_KINDS=1` (`dev: true` in `catalog.ts`, `SHOW_DEV_KINDS`), im Programm und in Releases nicht. Ihr Abschnitt in `docs/anleitung.md` steht zwischen `<!-- dev -->` und `<!-- /dev -->` und kommt nur mit derselben Variable in die Anleitung; `test:ui` prüft ohne Variable, dass sie ausgeblendet ist, mit Variable den Ablauf (`VITE_DEV_KINDS=1 npm run build && VITE_DEV_KINDS=1 npm run test:ui`). Eigenes System, nicht kompatibel mit osVAC neo; Idee wie die magnetische Schnellkupplung von kleinholz.me, eigene Konstruktion. Maschinenadapter: Muffe über den Stutzen (Ø 90–110, Spiel je Seite 0,3), innen 45°-Anschlag auf die Bohrung Ø 97, am offenen Ende Schraubklemme (Schlitz 4 mm mit Entlastungsloch Ø 8, zwei Ohren mit 45°-Stützen, Bohrung Ø 5,5, Kopfsenkung Ø 9,2 und Sechskant-Tasche SW 8,3, beide 5,3 tief: Zylinderschraube M5 × 25 ISO 4762, selbstsichernde Mutter M5 DIN 985), oben Flansch und Zentrierbund Ø 106 × 6. Schlauchkupplung: Rohr mit Außengewinde (Grund = Schlauch innen Ø 90–110, Tiefe 3, Flanken 45°, Steigung 8–20, links oder rechts, eigener Körper „Gewinde“), oben Flansch mit Tasche für den Bund (Spiel je Seite 0,3). Flansch: Scheibe R 59 und 8 Nasen auf R 63 (Nasenradius = Tasche/2 + 3,5), Unterseite durchgehend 45° von der Wand bis außen an die Nasen, darum druckt alles ohne Stützen. Magnete 10 × 3, 12 × 5 oder 15 × 3 in geschlossenen Taschen (+0,3 im Ø, +0,2 hoch) 0,6 mm unter der Kontaktfläche; Kontaktfläche und Taschen im 0,2-mm-Raster, die Höhen der Druckpause stehen in den Druckhinweisen. Beide Teile werden mit der Kontaktfläche nach oben gedruckt und liegen diagonal nebeneinander, um 22,5° gegeneinander verdreht (passen auf 256 mm). `npm run test:islands -- magnet` prüft drei Varianten; `npx tsx scripts/magnet-try.ts [Ordner] [JSON]` baut die Körper einzeln als STL.
 
 **Drehring-Lösehilfe** (`src/lib/osvac/helper.ts`): nach „osVACneo SlipRingHelper“ von Ludo Kerz (odul), parametrisch nachgebaut (Abgleich mit dem Fusion-Export F32/M32: Abweichung ≤ 0,02 mm, Schrift ausgenommen). Halter für Kupplungen: Block (FemaleDiameterOuter + 2, 33,5 hoch) mit Stecker-Stutzen und drei Rippen bis 3,3 mm unter die Oberkante. Halter für Stecker: Block mit Bohrung wie die Kupplung und sechs Taschen für die Nasen. Schrift „osVAC neo / F32 bzw. M32 / Drehring-Lösehilfe“ 0,5 mm tief; beschriftet wie im Original nach dem Teil selbst (der Halter für Kupplungen ist ein Stecker: M32, der für Stecker eine Kupplung: F32). Fusion-Exportskript: `tools/fusion/export_loesehilfe`.
 
@@ -271,7 +271,7 @@ dann `npx tauri build --bundles appimage,deb`.
 1. Version in `package.json`, `package-lock.json`, `src-tauri/tauri.conf.json`, `src-tauri/Cargo.toml` und
    `src-tauri/Cargo.lock` erhöhen und in `CHANGELOG.md` einen Abschnitt `## <Version>` anlegen.
 2. Bei geänderten Abhängigkeiten die Lizenzdateien neu erzeugen (siehe „Lizenzen“).
-3. Committen, pushen, dann den Tag setzen: `git tag v0.5.4 && git push origin v0.5.4`.
+3. Committen, pushen, dann den Tag setzen: `git tag v0.5.5 && git push origin v0.5.5`.
 
 Der Tag startet `.github/workflows/release.yml`: Erst wird geprüft, ob Tag, Versionsnummern und CHANGELOG
 zusammenpassen und die Lizenzdateien aktuell sind. Dann laufen alle Tests und die drei Installer gleichzeitig (etwa 15–20 Minuten). Nur wenn alles
@@ -284,7 +284,7 @@ Vorabversion markiert und zählt nicht als „latest“.
 Schlägt etwas fehl, entsteht kein Release:
 - Fehler ohne Änderung am Code (z. B. Störung bei GitHub): im Lauf **Re-run failed jobs**.
 - Fehler im Code: beheben, pushen, Tag löschen und neu setzen:
-  `git tag -d v0.5.4 && git push origin :refs/tags/v0.5.4 && git tag v0.5.4 && git push origin v0.5.4`.
+  `git tag -d v0.5.5 && git push origin :refs/tags/v0.5.5 && git tag v0.5.5 && git push origin v0.5.5`.
   Das geht nur, solange es zu diesem Tag noch kein Release gibt. Sonst lieber eine neue Version.
 
 **Nur zum Testen** lässt sich jeder Installer auch einzeln bauen: **Actions → Windows-Installer** (bzw. macOS-,

diff --git a/docs/anleitung.md b/docs/anleitung.md
@@ -49,7 +49,9 @@ Im ersten Schritt wählst du, was für einen Adapter du brauchst. Die Arten sind
 - **osVAC neo untereinander:** [Stecker ↔ Kupplung](#stecker-kupplung) verbindet zwei Größen. *Kupplung einzeln* und *Stecker einzeln* sind nur der Verschluss, z. B. zum Einbau in eigene Konstruktionen.
 - **An den Schlauch:** [Kupplung ↔ Schlauch und Stecker ↔ Schlauch](#schlauch) – zum Aufdrehen auf den Saugschlauch.
 - **An ein Gerät:** [Kupplung → Stutzen und Stecker → Stutzen](#stutzen) – für ein Gerät mit rundem Stutzen, den du selbst ausmisst.
+<!-- dev -->
 - **Magnet-Schnellkupplung Ø100:** [Adapter und Kupplung für 100-mm-Schläuche](#magnet), die mit eingedruckten Magneten zusammenhalten. Ein eigenes System, es passt nicht zu den Teilen von osVAC neo.
+<!-- /dev -->
 - **Zubehör:** [Saugdüse](#duese), [Nebenluft-Regler](#nebenluft), [Schieber einzeln](#schieber) und [Drehring-Lösehilfe](#loesehilfe).
 - **Eigener Aufbau:** [Freiform](#freiform) – ein Adapter aus Bausteinen, z. B. für eckige Auslässe, Bögen, Abzweige oder Geräte mit ungewöhnlicher Form.
 
@@ -95,7 +97,7 @@ Wie es danach weitergeht, steht unter [Download](#download).
 ![Passung beim Schlauchadapter](anleitung/passung-schlauch.webp){klein}
 
 - **Spiel zwischen Stecker und Kupplung:** wie bei [Stecker ↔ Kupplung](#stecker-kupplung).
-- **Spiel am Drehring:** Der Ring wird gleich mitgedruckt. Ist das Spiel zu klein, klebt er fest. Standard sind 0,45 mm, passend für PETG (bei 9 mm Materialstärke höchstens 0,35 mm). Das Original nutzt 0,3 mm; damit sitzt der Ring mit PETG oft fest.
+- **Spiel am Drehring:** Der Ring wird gleich mitgedruckt. Ist das Spiel zu klein, klebt er fest. Standard sind 0,35 mm, bei 9 mm Materialstärke ist das auch das Höchstmaß. Das Original nutzt 0,3 mm. Mit PETG kann der Ring nach dem Druck festsitzen; dann hilft die [Drehring-Lösehilfe](#loesehilfe).
 - **Materialstärke:** 9 mm statt 7 mm macht die Kupplung stabiler, sie wird dann außen 4 mm dicker.
 
 > Hinweis: Nach dem Druck den Schlauchteil einmal kräftig drehen, bis sich der Ring leicht bewegt. Sitzt er richtig fest, hilft die [Drehring-Lösehilfe](#loesehilfe).
@@ -138,6 +140,7 @@ Die kleine Tabelle darunter zeigt, wie weit das Rohrteil am Ende innen und auße
 
 > Tipp: Für Geräte mit eckigem oder ungewöhnlichem Auslass nimm die [Freiform](#freiform). Dort gibt es auch einen [Flansch zum Anschrauben](#flansch) und [eigene Konturen](#kontur).
 
+<!-- dev -->
 ## Magnet-Schnellkupplung Ø100 {#magnet}
 
 Für große Geräte mit 100-mm-Absaugung: Am Gerät sitzt ein **Maschinenadapter**, am Schlauch eine **Schlauchkupplung**. Beide halten über je acht Neodym-Magnete zusammen; ein Bund in der Mitte zentriert sie. Zum Umstecken ziehst du die Kupplung ab und setzt sie am nächsten Gerät an. Das ist ein eigenes System und passt nicht zu den Teilen von osVAC neo.
@@ -164,6 +167,7 @@ Die Magnete liegen in geschlossenen Taschen unter der Kontaktfläche. Beim Druck
 3. **Polung:** Alle Magnete eines Teils gleich herum einlegen, beim Adapter mit der einen Seite nach oben, bei der Kupplung mit der anderen. Dann ziehen sich alle Kupplungen und Adapter an.
 4. Weiterdrucken.
 
+<!-- /dev -->
 ## Saugdüse {#duese}
 
 Eine eigene Düse zum Aufstecken auf den Schlauch. Die Düse wird stehend gedruckt, mit dem Anschluss unten und der Spitze oben.
@@ -212,7 +216,7 @@ Der Nebenluft-Regler kommt direkt auf den Schlauch. Oben steckst du die Düse od
 - **Unten: Schlauch (H):** wie beim [Schlauchadapter](#schlauch). Der Schlauch wird eingedreht und kann sich mit dem unteren Drehring drehen.
 - **Bedienung:** Den Nebenluft-Ring um 60° drehen: von ganz auf bis ganz zu, dazwischen stufenlos. Kerben am oberen Bund zeigen, wo die Fenster sind.
 
-In **Passung** stellst du das **Spiel am Nebenluft-Ring** ein (Standard 0,35 mm) und das **Spiel am Drehring** für den Schlauch (Standard 0,45 mm). Dreht ein Ring nach dem Druck zu schwer, mehr Spiel einstellen.
+In **Passung** stellst du das **Spiel am Nebenluft-Ring** ein (Standard 0,35 mm) und das **Spiel am Drehring** für den Schlauch (Standard 0,35 mm). Dreht ein Ring nach dem Druck zu schwer, mehr Spiel einstellen.
 
 ## Schieber {#schieber}
 

diff --git a/CHANGELOG.md b/CHANGELOG.md
@@ -2,9 +2,15 @@
 
 Änderungen je Version (in der App nicht mehr angezeigt).
 
-## 0.6.0
+## In Entwicklung (noch nicht in der App)
+
+Nur in der Entwicklungsumgebung (`npm run dev`) oder in einem Build mit `VITE_DEV_KINDS=1` sichtbar, nicht im Programm.
 
 - Neu: **Magnet-Schnellkupplung Ø100** für große Geräte mit 100-mm-Absaugung. Maschinenadapter mit Schraubklemme (M5 × 25 und selbstsichernde Mutter) und Schlauchkupplung mit Links- oder Rechtsgewinde halten über je 8 eingedruckte Neodym-Magnete (10 × 3, 12 × 5 oder 15 × 3 mm) zusammen, ein Bund zentriert sie. Die Druckhinweise nennen die Höhe der Druckpause zum Einlegen der Magnete. Druckt ohne Stützen. Eigenes System, passt nicht zu osVAC neo. Anleitung mit eigenem Abschnitt.
+
+## 0.5.5
+
+- Drehring am Schlauchadapter und am Nebenluft-Regler: Standard-Spiel wieder 0,35 mm (vorher 0,45 mm). Testdrucke mit PETG haben gezeigt, dass 0,45 mm nicht besser löst, aber deutlich mehr Fäden zieht. Sitzt der Ring nach dem Druck fest, hilft die Drehring-Lösehilfe. Wer die App schon benutzt hat, behält seinen gespeicherten Wert; „Passung auf Standard zurücksetzen“ stellt 0,35 mm ein.
 
 ## 0.5.4
 
